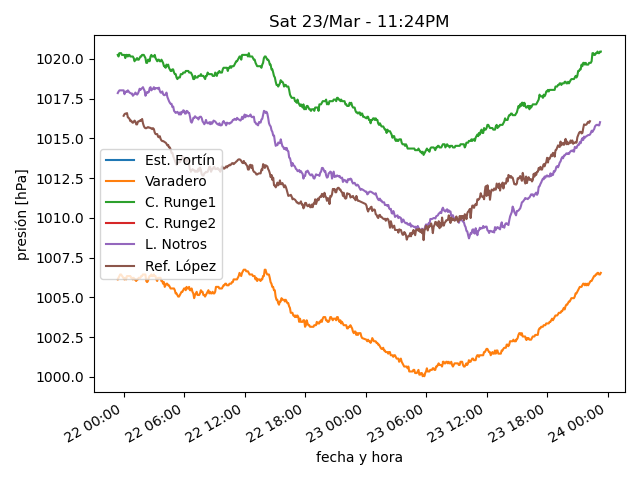
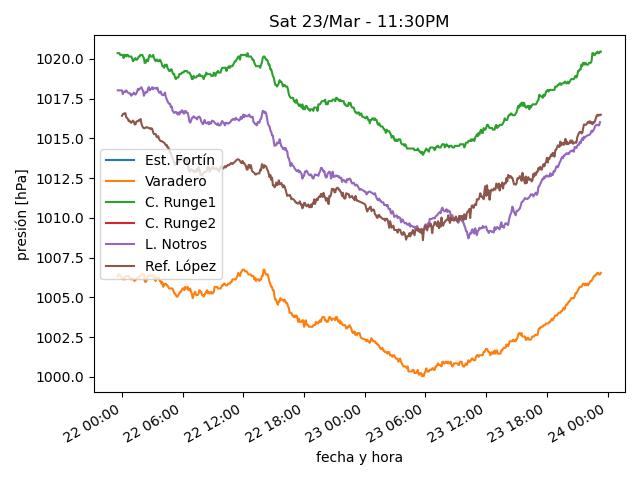
actualiza datos

diff --git a/estaciones/estacion6.html b/estaciones/estacion6.html
@@ -18,32 +18,32 @@
     </tr>
     <tr>
      <td class="stats_data">
-      10:15PM
+      11:20PM
      </td>
     </tr>
     <tr>
      <td class="stats_data">
-      7.0
+      6.8
      </td>
     </tr>
     <tr>
      <td class="stats_data">
-      4.8
+      4.9
      </td>
     </tr>
     <tr>
      <td class="stats_data">
-      86.0
+      88.0
      </td>
     </tr>
     <tr>
      <td class="stats_data">
-      1017.47
+      1017.88
      </td>
     </tr>
     <tr>
      <td class="stats_data">
-      4.8/17.7 ESE
+      0.0/6.4 N
      </td>
     </tr>
     <tr>
@@ -58,7 +58,7 @@
     </tr>
     <tr>
      <td class="stats_data">
-      905.0
+      903.0
      </td>
     </tr>
    </tbody>
